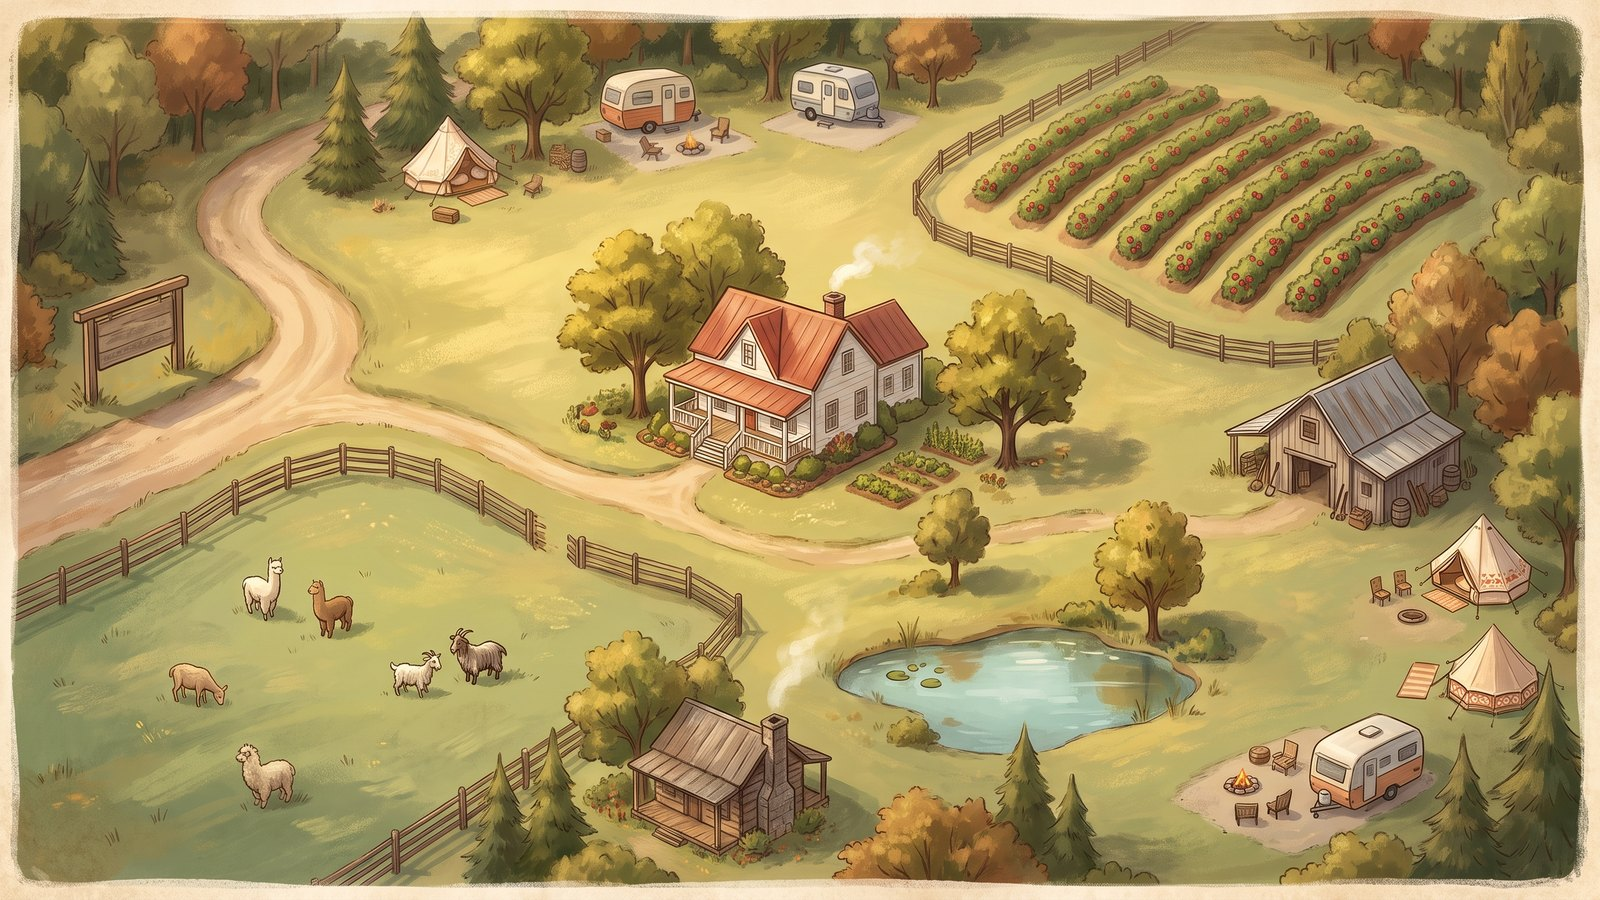
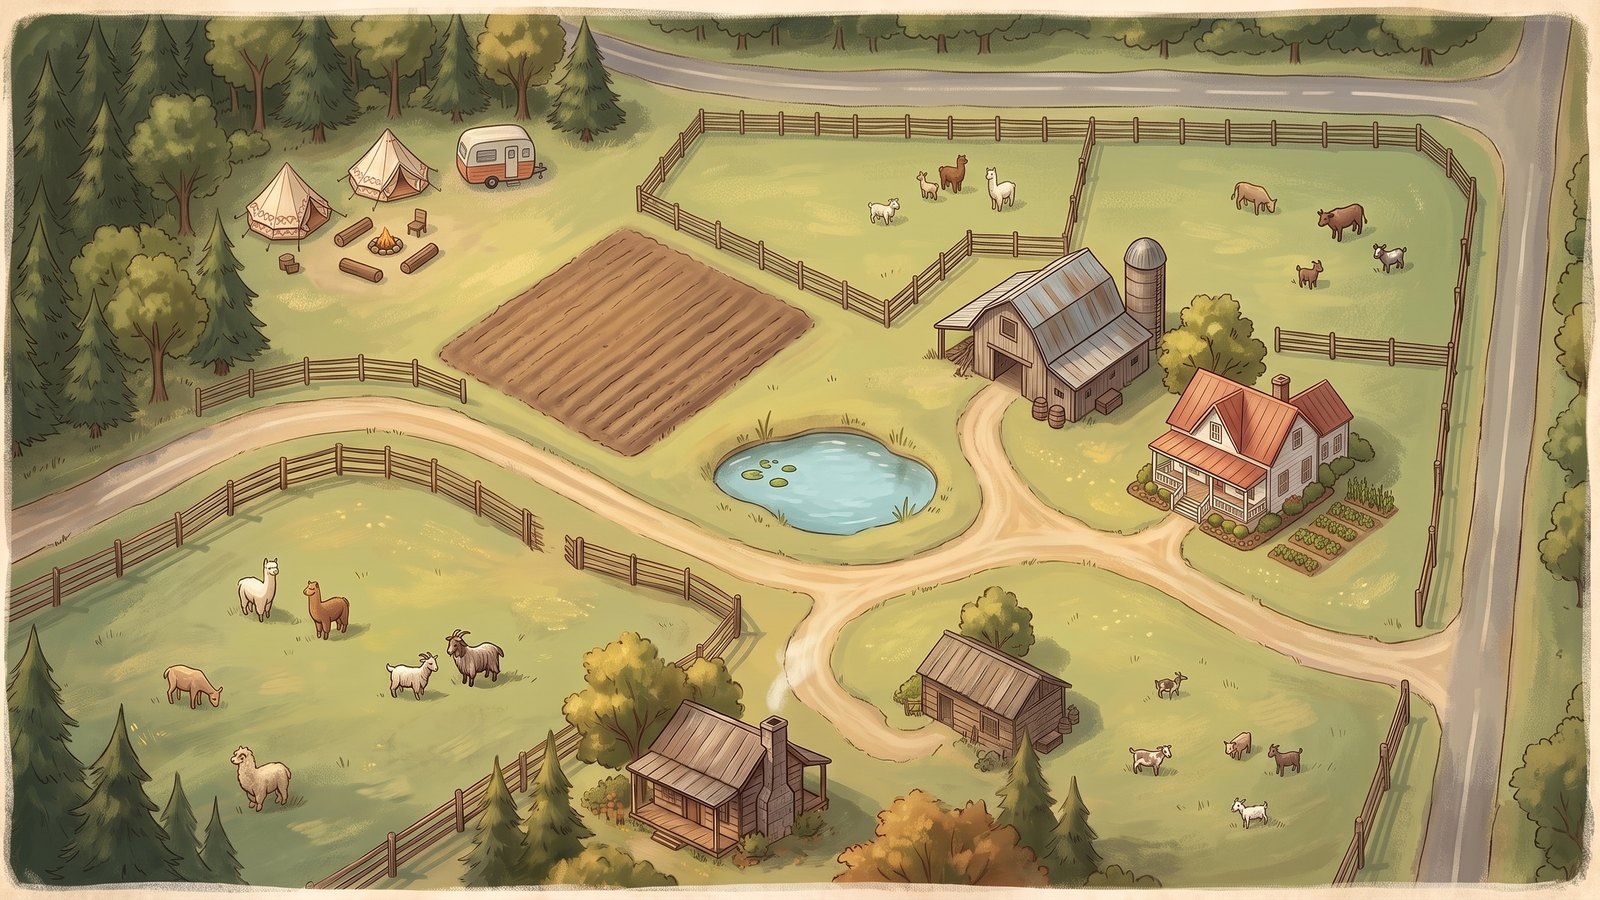
mirror refresh: real-layout farm map + SW v7

diff --git a/index.html b/index.html
@@ -552,22 +552,29 @@ function sexGlyph(s){ return s==='female'?'♀ ':s==='male'?'♂ ':''; }
 const MAP_ART = {w:1600, h:900};
 // Pen zones over the farm art — {left,top,w,h} as % of the map, matched to a
 // folder by species+sex (id filled from /placements pens at load).
-// Zones sit over open field areas of the art; spaced so signposts don't collide.
-// x/y/w/h are % of the map. (Tune freely — pure presentation.)
+// Pen drop-zones placed over the REAL field regions of the painted map (which
+// traces the farm's satellite layout). x/y/w/h are % of the 1600x900 art.
+// Top-center pasture, right pasture, and bottom-left pasture are the grazing
+// paddocks; poultry/pigs sit near the barn. (Pure presentation — tune freely.)
 const PEN_ZONES = [
-  {key:'Alpaca|female', label:'Alpaca Girls',  x:4,  y:60, w:20, h:16, emoji:'🦙'},
-  {key:'Alpaca|male',   label:'Alpaca Boys',   x:4,  y:82, w:20, h:14, emoji:'🦙'},
-  {key:'Goat|female',   label:'Goat Does',     x:27, y:62, w:15, h:14, emoji:'🐐'},
-  {key:'Goat|male',     label:'Goat Bucks',    x:27, y:82, w:15, h:14, emoji:'🐐'},
-  {key:'Mule|',         label:'Mules',         x:2,  y:38, w:13, h:14, emoji:'🐴'},
-  {key:'Cattle|female', label:'Cattle Cows',   x:46, y:20, w:13, h:13, emoji:'🐮'},
-  {key:'Cattle|male',   label:'Cattle Bulls',  x:46, y:37, w:13, h:13, emoji:'🐮'},
-  {key:'Pig|',          label:'Pigs',          x:44, y:82, w:13, h:14, emoji:'🐷'},
-  {key:'Ducks|',        label:'Ducks',         x:60, y:66, w:13, h:12, emoji:'🦆'},
-  {key:'Turkey|female', label:'Turkey Hens',   x:72, y:20, w:11, h:12, emoji:'🦃'},
-  {key:'Turkey|male',   label:'Turkey Toms',   x:84, y:20, w:11, h:12, emoji:'🦃'},
-  {key:'Chicken|female',label:'Hens',          x:72, y:58, w:11, h:12, emoji:'🐔'},
-  {key:'Chicken|male',  label:'Roosters',      x:84, y:58, w:11, h:12, emoji:'🐔'},
+  // bottom-left big paddock (alpacas + goats graze here in the art)
+  {key:'Alpaca|female', label:'Alpaca Girls',  x:4,  y:58, w:18, h:15, emoji:'🦙'},
+  {key:'Alpaca|male',   label:'Alpaca Boys',   x:4,  y:80, w:18, h:14, emoji:'🦙'},
+  {key:'Goat|female',   label:'Goat Does',     x:24, y:74, w:14, h:14, emoji:'🐐'},
+  {key:'Goat|male',     label:'Goat Bucks',    x:24, y:90, w:14, h:9,  emoji:'🐐'},
+  {key:'Mule|',         label:'Mules',         x:2,  y:40, w:13, h:14, emoji:'🐴'},
+  // top-center pasture (fenced, alpaca+cattle graze in the art)
+  {key:'Cattle|female', label:'Cattle Cows',   x:42, y:16, w:13, h:13, emoji:'🐮'},
+  {key:'Cattle|male',   label:'Cattle Bulls',  x:57, y:16, w:13, h:13, emoji:'🐮'},
+  // right pasture (cattle + goats graze right of the buildings)
+  {key:'Turkey|female', label:'Turkey Hens',   x:74, y:18, w:11, h:12, emoji:'🦃'},
+  {key:'Turkey|male',   label:'Turkey Toms',   x:74, y:34, w:11, h:12, emoji:'🦃'},
+  // near the barn / lower buildings
+  {key:'Chicken|female',label:'Hens',          x:60, y:74, w:11, h:11, emoji:'🐔'},
+  {key:'Chicken|male',  label:'Roosters',      x:58, y:88, w:12, h:11, emoji:'🐔'},
+  {key:'Pig|',          label:'Pigs',          x:75, y:74, w:12, h:12, emoji:'🐷'},
+  // ducks by the pond (center)
+  {key:'Ducks|',        label:'Ducks',         x:45, y:62, w:12, h:11, emoji:'🦆'},
 ];
 let M=null;  // {pens, placements, view:{scale,tx,ty}, drag}
 function penForZone(z){

diff --git a/sw.js b/sw.js
@@ -3,8 +3,8 @@
    herd.json is network-first with a cached fallback (fresh when online, still
    browsable offline). Write POSTs (/name /reject /photo /suggest /vote) are
    never cached — they must hit the live daemon. */
-const SHELL = 'herd-shell-v5';
-const DATA = 'herd-data-v5';
+const SHELL = 'herd-shell-v7';
+const DATA = 'herd-data-v7';
 const SHELL_FILES = ['./', './index.html', './manifest.webmanifest', './icon.svg', './farm-map.jpg'];
 
 self.addEventListener('install', e => {